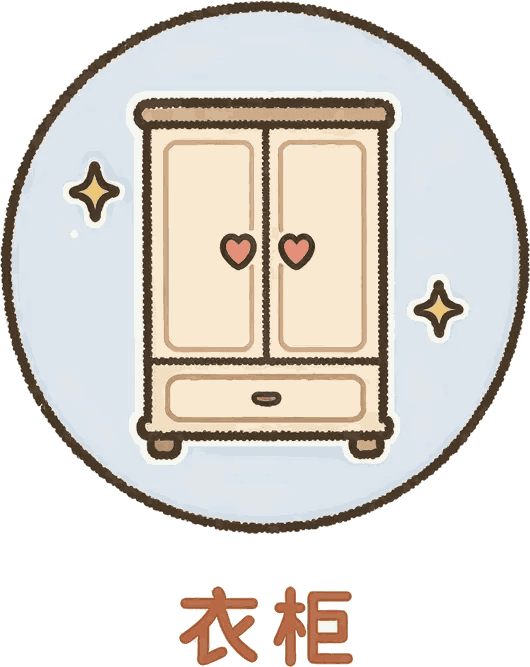
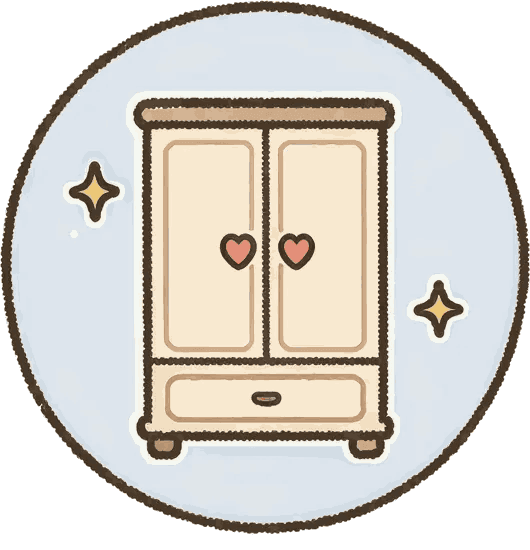
小程序: 小窝已养宠态去除邀请按钮，照顾面板去重复文字收高度，名牌靠左宠物缩小，快捷入口裁字上移进背景图

diff --git a/miniapp/src/components/PetStatusCard.scss b/miniapp/src/components/PetStatusCard.scss
@@ -2,9 +2,9 @@
 .pet-card-scene { position: relative; height: 470px; display: flex; align-items: center; justify-content: center; overflow: hidden; background: linear-gradient(180deg,#ffe9c7,#fff4df); }
 .pet-card-scene::after { position: absolute; inset: 0; z-index: 1; background: linear-gradient(180deg,rgba(255,242,221,.08),rgba(143,91,52,.1)); content: ''; pointer-events: none; }
 .pet-card-background { position: absolute; inset: 0; width: 100%; height: 100%; }
-.pet-avatar-image { position: relative; z-index: 2; width: 330px; height: 390px; }
+.pet-avatar-image { position: relative; z-index: 2; width: 300px; height: 354px; }
 .pet-level { position: absolute; top: 28px; left: 28px; z-index: 3; padding: 8px 16px; border-radius: 999px; background: rgba(255,255,255,.8); color: #a56f4a; font-size: var(--font-size-aux); font-weight: var(--font-weight-bold); }
-.pet-name-badge { position: absolute; bottom: 24px; z-index: 3; padding: 8px 24px; border-radius: 999px; background: rgba(255,255,255,.86); color: #5e3b1d; font-size: var(--font-size-card-title); font-weight: var(--font-weight-bold); }
+.pet-name-badge { position: absolute; bottom: 24px; left: 28px; z-index: 3; padding: 8px 24px; border-radius: 999px; background: rgba(255,255,255,.86); color: #5e3b1d; font-size: var(--font-size-card-title); font-weight: var(--font-weight-bold); }
 .pet-memory-button { position: absolute; top: 28px; right: 28px; z-index: 3; padding: 8px 14px; border-radius: 999px; background: rgba(255,255,255,.8); color: #a56f4a; font-size: var(--font-size-body); }
 .pet-card-experience { padding: 22px 28px 28px; }
 .pet-caption { color: #a98d7e; font-size: var(--font-size-aux); font-weight: var(--font-weight-bold); }

diff --git a/miniapp/src/config/miniappMainLayout.test.ts b/miniapp/src/config/miniappMainLayout.test.ts
@@ -27,13 +27,15 @@ describe('miniapp main layout', () => {
     const meStyles = fs.readFileSync(path.join(root, 'features', 'main', 'MiniappMeView.scss'), 'utf8')
 
     expect(nestStyles).toMatch(/\.miniapp-nest__scene\s*\{[\s\S]*position:\s*relative;/)
+    // 快捷入口整列收进 470px 背景大图内，不再垂直居中溢出到卡片下方
     expect(nestStyles).toMatch(/\.miniapp-nest__shortcuts\s*\{[\s\S]*position:\s*absolute;/)
-    expect(nestStyles).toMatch(/\.miniapp-nest__shortcuts\s*\{[\s\S]*right:\s*4px;/)
+    expect(nestStyles).toMatch(/\.miniapp-nest__shortcuts\s*\{[\s\S]*top:\s*20px;/)
+    expect(nestStyles).toMatch(/\.miniapp-nest__shortcuts\s*\{[\s\S]*right:\s*8px;/)
     expect(nestStyles).toMatch(/\.miniapp-nest__shortcuts\s*\{[\s\S]*flex-direction:\s*column;/)
     expect(nestStyles).toMatch(/\.miniapp-nest__shortcuts\s*\{[\s\S]*gap:\s*16px;/)
-    expect(nestStyles).toMatch(/\.miniapp-nest__shortcut\s*\{[\s\S]*width:\s*128px;/)
-    expect(nestStyles).toMatch(/\.miniapp-nest__shortcut image\s*\{[\s\S]*width:\s*128px;/)
-    expect(nestStyles).toMatch(/\.miniapp-nest__shortcut image\s*\{[\s\S]*height:\s*133px;/)
+    expect(nestStyles).toMatch(/\.miniapp-nest__shortcut\s*\{[\s\S]*width:\s*104px;/)
+    expect(nestStyles).toMatch(/\.miniapp-nest__shortcut image\s*\{[\s\S]*width:\s*104px;/)
+    expect(nestStyles).toMatch(/\.miniapp-nest__shortcut image\s*\{[\s\S]*height:\s*108px;/)
     expect(meStyles).toMatch(/\.miniapp-me__item image,[\s\S]*\.miniapp-me__logout image\s*\{[\s\S]*width:\s*76rpx;/)
     expect(meStyles).toMatch(/\.miniapp-me__item image,[\s\S]*\.miniapp-me__logout image\s*\{[\s\S]*height:\s*76rpx;/)
   })

diff --git a/miniapp/src/features/main/miniappViewModel.test.ts b/miniapp/src/features/main/miniappViewModel.test.ts
@@ -94,6 +94,8 @@ describe('miniapp view model', () => {
 
   it('replaces the invite button with the unlock button after a friend accepts', () => {
     const invite = getInvitationButtonState(true, false)
+    // 小多利一人一只：已在养（active）时不再展示邀请好友入口
+    expect(getNestActionButton('active', invite)).toBeNull()
     expect(getNestActionButton('empty', invite)).toEqual({
       kind: 'invite',
       label: '邀请好友一起养一只小多利吧~',
@@ -106,7 +108,7 @@ describe('miniapp view model', () => {
       disabled: false,
       shareReady: false,
     })
-    expect(getNestActionButton('locked', invite, true).disabled).toBe(true)
+    expect(getNestActionButton('locked', invite, true)?.disabled).toBe(true)
   })
 
   it('treats only pair rooms as friend conversations on the messages tab', () => {

diff --git a/miniapp/src/components/PetActionBar.tsx b/miniapp/src/components/PetActionBar.tsx
@@ -10,13 +10,13 @@ const actions: Array<[PetAction, string, string]> = [
   ['sleep', '睡觉', require('../assets/action-sleep.png')],
 ]
 
+// 按钮文字已烙在图标图里，不另渲染文本，避免框下出现重复说明
 export function PetActionBar({ onAction }: Props) {
   return <View className="pet-actions-panel">
     <Text className="pet-actions-title">照顾小多利</Text>
     <View className="pet-actions">
-      {actions.map(([action, label, icon]) => <View className="pet-action-button" key={action} onClick={() => onAction(action)}>
+      {actions.map(([action, , icon]) => <View className="pet-action-button" key={action} onClick={() => onAction(action)}>
         <Image src={icon} mode="aspectFit" />
-        <Text>{label}</Text>
       </View>)}
     </View>
   </View>

diff --git a/miniapp/src/features/main/MiniappNestView.scss b/miniapp/src/features/main/MiniappNestView.scss
@@ -39,27 +39,27 @@
   background: #fff8ee;
 }
 
+/* 快捷入口整体收进 470px 背景图内：三枚图标 108px + 间距 16px 共 356px，上下各留 ~57px，不再压到卡片下方 */
 .miniapp-nest__shortcuts {
   position: absolute;
-  top: 50%;
-  right: 4px;
+  top: 20px;
+  right: 8px;
   z-index: 2;
   display: flex;
   flex-direction: column;
   gap: 16px;
-  transform: translateY(-50%);
 }
 
 .miniapp-nest__shortcut {
   display: flex;
-  width: 128px;
+  width: 104px;
   flex-direction: column;
   align-items: center;
 }
 
 .miniapp-nest__shortcut image {
-  width: 128px;
-  height: 133px;
+  width: 104px;
+  height: 108px;
 }
 
 /* 锁定/空状态信件场景独立成固定层：内容不足一屏时页面文档流为空、整页锁死不可拖动；

diff --git a/miniapp/src/pages/index/index.tsx b/miniapp/src/pages/index/index.tsx
@@ -302,7 +302,7 @@ export default function Index() {
   const nestFooter = hasAuthenticatedSession(accessToken) && activeTab === 'nest' ? (
     <>
       {shouldShowNestFeedback(activeTab, loading, message) && <View className="feedback"><Text>{loading ? '正在同步…' : message}</Text></View>}
-      {nestAction.kind === 'unlock' ? (
+      {nestAction === null ? null : nestAction.kind === 'unlock' ? (
         <Button className="share-button" disabled={nestAction.disabled} onClick={() => setBoxPhase('jumping')}>
           {nestAction.label}
         </Button>

diff --git a/miniapp/src/components/PetActionBar.scss b/miniapp/src/components/PetActionBar.scss
@@ -2,4 +2,4 @@
 .pet-actions-title { color: #a98d7e; font-size: var(--font-size-aux); font-weight: var(--font-weight-medium); }
 .pet-actions { display: grid; grid-template-columns: repeat(4,1fr); gap: 12px; margin-top: 10px; }
 .pet-action-button { display: flex; flex-direction: column; align-items: center; color: #765c47; font-size: var(--font-size-aux); }
-.pet-action-button image { width: 120px; height: 120px; }
+.pet-action-button image { width: 120px; height: 128px; }

diff --git a/miniapp/src/features/main/miniappViewModel.ts b/miniapp/src/features/main/miniappViewModel.ts
@@ -43,6 +43,10 @@ export function getNestActionButton(
       shareReady: false,
     }
   }
+  // 小多利一人一只：已在养（active）时不再展示邀请好友入口
+  if (sceneMode === 'active') {
+    return null
+  }
   return {
     kind: 'invite' as const,
     ...invitation,
